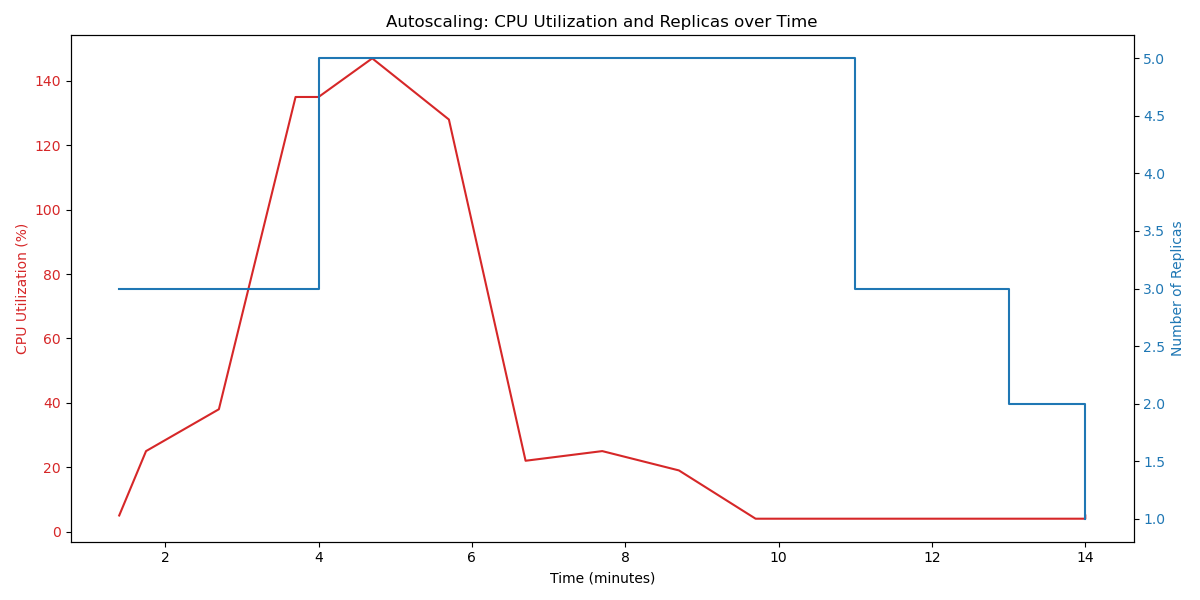
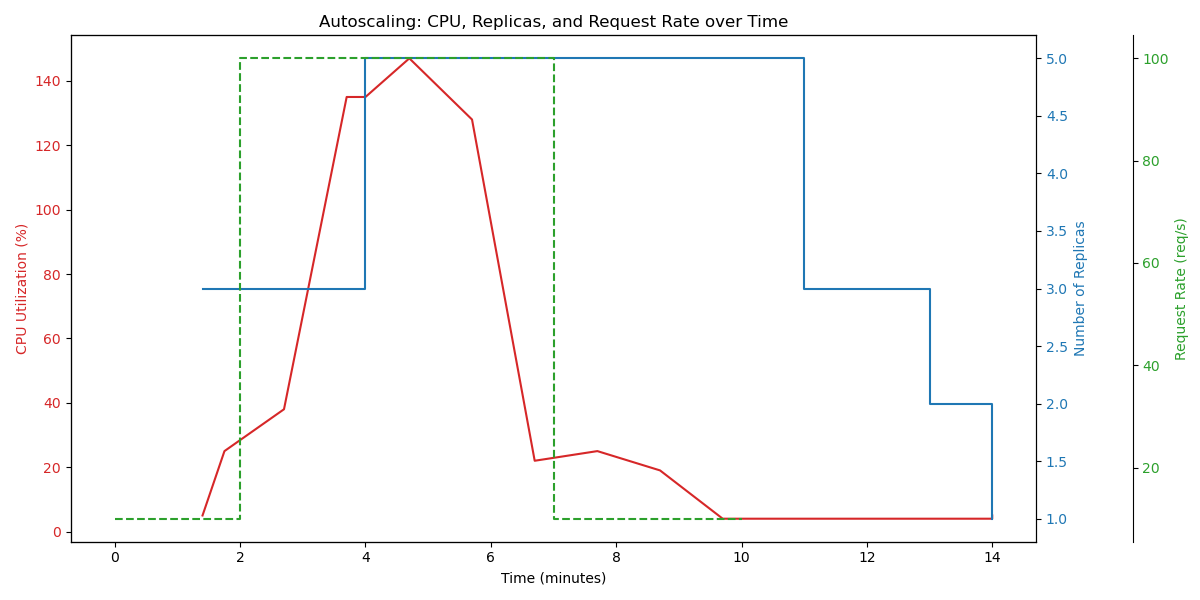
Update Graph 3 with request rate line

diff --git a/scripts/plot_graphs.py b/scripts/plot_graphs.py
@@ -5,7 +5,7 @@ import os
 base_dir = os.path.expanduser('~/assignment4/results')
 raw_dir = os.path.join(base_dir, 'm4_raw')
 
-# Graph 1
+# Graph 1 (Waise hi rahega)
 try:
     summary_path = os.path.join(base_dir, 'summary.csv')
     df_sum = pd.read_csv(summary_path)
@@ -24,15 +24,12 @@ try:
 except Exception as e:
     print(f"Error creating Graph 1: {e}")
 
-# Graph 2
+# Graph 2 (Bina kisi filter ke, jaisa aap chahti hain)
 try:
     metrics_path = os.path.join(raw_dir, 'cpu_memory_metrics.csv')
     df_metrics = pd.read_csv(metrics_path)
     start_time = df_metrics['timestamp'].min()
     df_metrics['time_min'] = (df_metrics['timestamp'] - start_time) / 60.0
-    
-    # YAHAN HAI FILTER: Yeh line kehti hai ke sirf 25 minute tak ka data rakho
-    df_metrics = df_metrics[df_metrics['time_min'] <= 25.0]
     
     df_metrics['cpu_val'] = df_metrics['cpu'].str.replace('m', '').astype(float)
     df_metrics['cpu_pct'] = (df_metrics['cpu_val'] / 100.0) * 100 
@@ -41,7 +38,7 @@ try:
     for pod in df_metrics['pod_name'].unique():
         pod_data = df_metrics[df_metrics['pod_name'] == pod]
         plt.plot(pod_data['time_min'], pod_data['cpu_pct'], label=pod)
-    plt.title('CPU Utilization (%) per Pod during 100 req/s Run')
+    plt.title('CPU Utilization (%) per Pod over Time')
     plt.xlabel('Time (minutes)')
     plt.ylabel('CPU Utilization (%)')
     plt.legend()
@@ -52,22 +49,35 @@ try:
 except Exception as e:
     print(f"Error creating Graph 2: {e}")
 
-# Graph 3
+# Graph 3 (Sirf isme Request Rate ki line add ki gayi hai)
 try:
     hpa_path = os.path.join(raw_dir, 'hpa_metrics.csv')
     df_hpa = pd.read_csv(hpa_path)
     fig, ax1 = plt.subplots(figsize=(12, 6))
+    
+    # Request Rate Data (2 min 10 req, 5 min 100 req, 3 min 10 req)
+    time_axis = [0, 2, 2, 7, 7, 10]
+    req_line = [10, 10, 100, 100, 10, 10]
+    
     color = 'tab:red'
     ax1.set_xlabel('Time (minutes)')
     ax1.set_ylabel('CPU Utilization (%)', color=color)
     ax1.plot(df_hpa['time_min'], df_hpa['cpu_pct'], color=color, label='CPU %')
     ax1.tick_params(axis='y', labelcolor=color)
+
     ax2 = ax1.twinx()  
     color = 'tab:blue'
     ax2.set_ylabel('Number of Replicas', color=color)  
     ax2.step(df_hpa['time_min'], df_hpa['replicas'], color=color, label='Replicas', where='post')
     ax2.tick_params(axis='y', labelcolor=color)
-    plt.title('Autoscaling: CPU Utilization and Replicas over Time')
+    
+    ax3 = ax1.twinx()
+    ax3.spines["right"].set_position(("axes", 1.1))
+    ax3.set_ylabel('Request Rate (req/s)', color='tab:green')
+    ax3.plot(time_axis, req_line, color='tab:green', linestyle='--', label='Request Rate')
+    ax3.tick_params(axis='y', labelcolor='tab:green')
+    
+    plt.title('Autoscaling: CPU, Replicas, and Request Rate over Time')
     fig.tight_layout()
     plt.savefig(os.path.join(base_dir, 'graph3_autoscaling.png'))
     plt.close()
